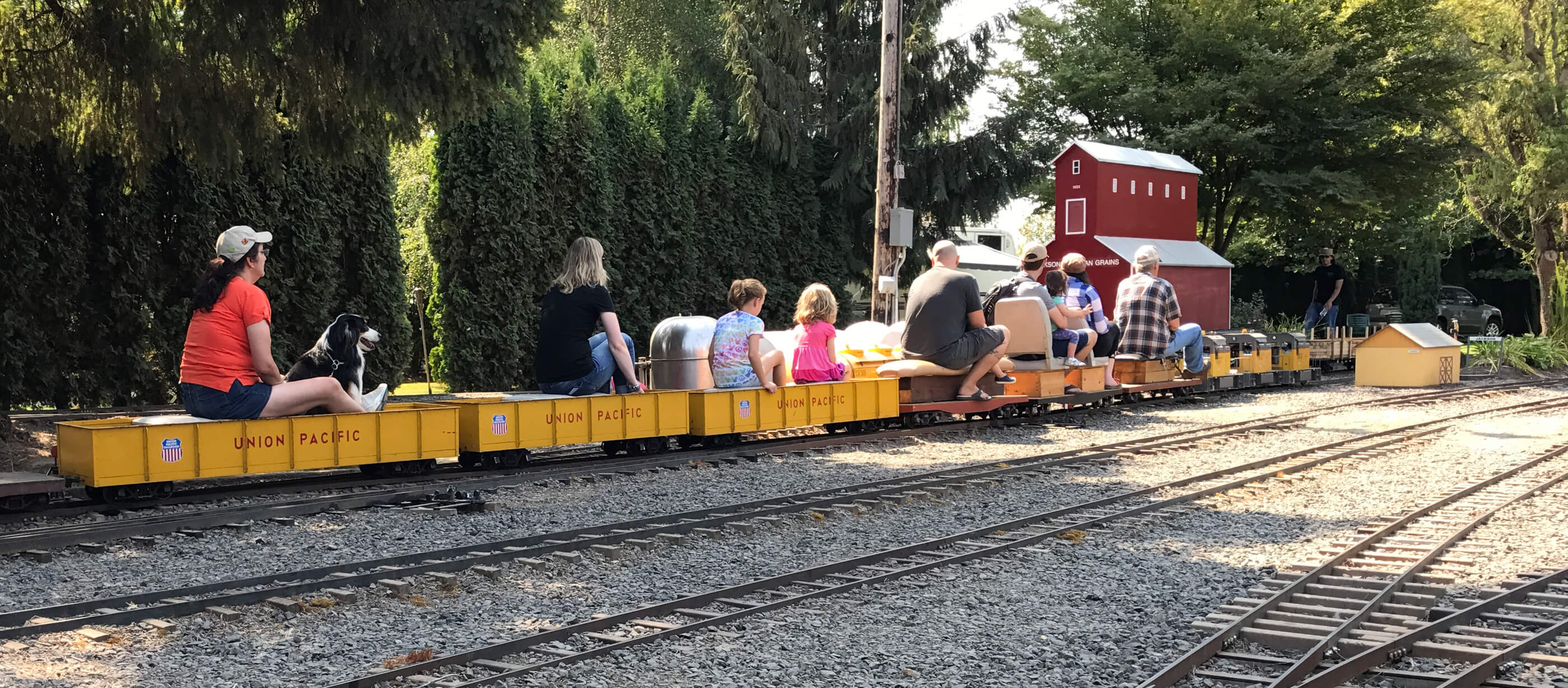
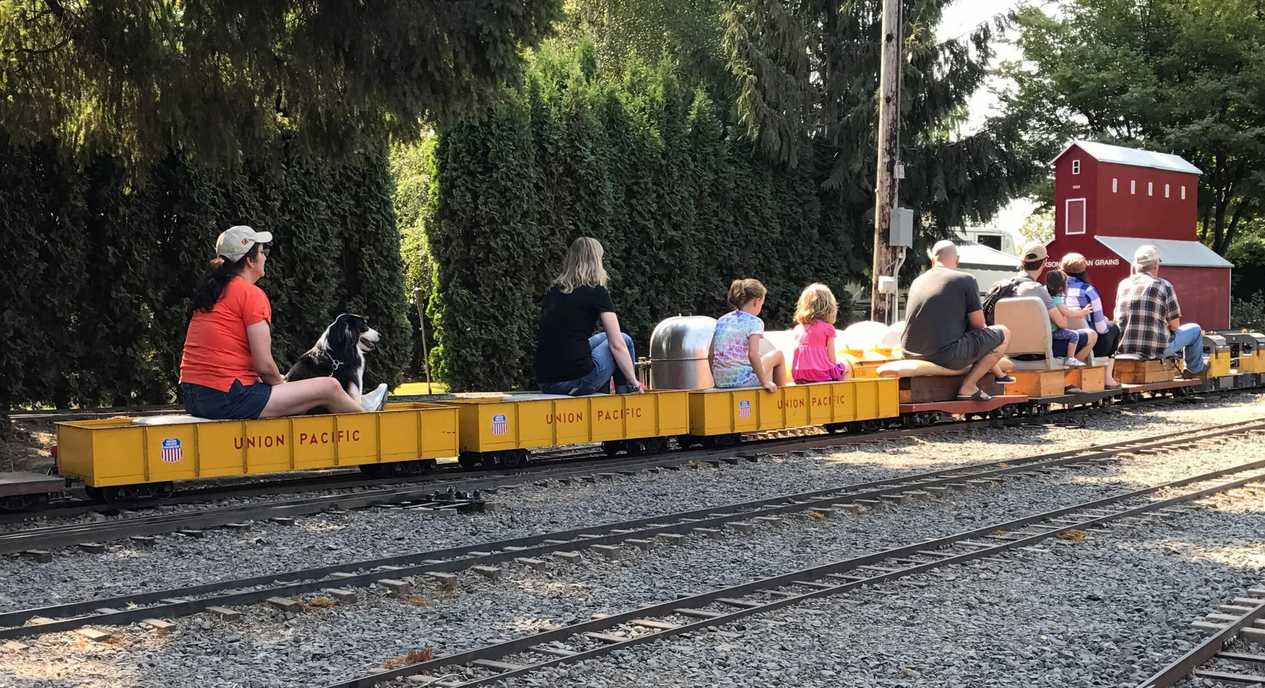
Image cropped - css edited

diff --git a/style.css b/style.css
@@ -262,7 +262,7 @@ hr{
 .fill {
     display: flex;
     justify-content: center;
-    align-items: center;
+    align-items: start;
     overflow: hidden
 }
 
@@ -353,19 +353,6 @@ footer p{
 
 
 /* --------------------INDEX  */
-.fill-home {
-    display: flex;
-    justify-content: center;
-    align-items: start;
-    overflow: hidden
-}
-
-.fill-home img {
-    flex-shrink: 0;
-    min-width: 100%;
-    min-height: 100%
-}
-
 .image-home{height:70vh;}
 
 .index-intro{padding:5% 5% 5% 0;}
@@ -578,8 +565,6 @@ form textarea{min-height: 8rem;}
     
 }
 
-
-
 /* ----------------------------------------MEDIA QUERIES------------- */
 /* --------------------DEFAULT RESPONSIVE STYLES */
 .mobile-show{display:none;}
@@ -637,12 +622,10 @@ form textarea{min-height: 8rem;}
     /* -----------CONTACT */
     .contact-intro{padding:7% 5%;}
 
-                        /* TODO */
-                        .image-contact{
-                            height: 30vh;
-                            /* width:80vw; */
-                            margin-bottom:3.25rem;
-                        }
+    .image-contact{
+        height: 45vh;
+        margin-bottom:3.25rem;
+    }
 
     /* -----------MEMBERSHIP */
     .become-member{padding:5.5% 6% 4% 3.5%;}
@@ -683,9 +666,8 @@ form textarea{min-height: 8rem;}
     }
 
     /* -----------INDEX */
-    .image-home{height:50vh;}
+    .image-home{height:45vh;}
     .bullet-points div{padding:7% 3%;}
-
 
     /* -----------HISTORY */
                     /* TODO */
@@ -737,11 +719,12 @@ form textarea{min-height: 8rem;}
 
     /* -----------CONTACT */
     .contact-intro{padding:10% 5% 20%;}
-                    /* TODO */
-                    .image-contact{
-                        height: 33vh;
-                        width:80vw;    
-                    }
+
+    .image-contact{
+        height: 35vh;
+        width:80vw;    
+    }
+    
     .contact-form{padding:10% 5%;}
 
     /* -----------MEMBERSHIP */
@@ -775,6 +758,7 @@ form textarea{min-height: 8rem;}
 
     /* -----------EMDEDDED MAP*/
     .map{padding:15% 10%;}
+
     .map-responsive{
         margin-right:0;
         margin-top:2.5rem;

diff --git a/index.html b/index.html
@@ -16,16 +16,16 @@ fourth-image-alt-text:
 <section>
     <div class="slider-container">
         <div class="slider-item">
-            <div class="fill-home image-home"><img src="{{page.first_image}}" alt="{{page.first-image-alt-text}}"/></div>
+            <div class="fill image-home"><img src="{{page.first_image}}" alt="{{page.first-image-alt-text}}"/></div>
         </div>
         <div class="slider-item">
-            <div class="fill-home image-home"><img src="{{page.second_image}}" alt="{{page.second-image-alt-text}}"/></div>
+            <div class="fill image-home"><img src="{{page.second_image}}" alt="{{page.second-image-alt-text}}"/></div>
         </div>
         <div class="slider-item">
-            <div class="fill-home image-home"><img src="{{page.third_image}}" alt="{{page.third-image-alt-text}}"/></div>
+            <div class="fill image-home"><img src="{{page.third_image}}" alt="{{page.third-image-alt-text}}"/></div>
         </div>
         <div class="slider-item">
-            <div class="fill-home image-home"><img src="{{page.fourth_image}}" alt="{{page.fourth-image-alt-text}}"/></div>
+            <div class="fill image-home"><img src="{{page.fourth_image}}" alt="{{page.fourth-image-alt-text}}"/></div>
         </div>
     </div>
 </section>
